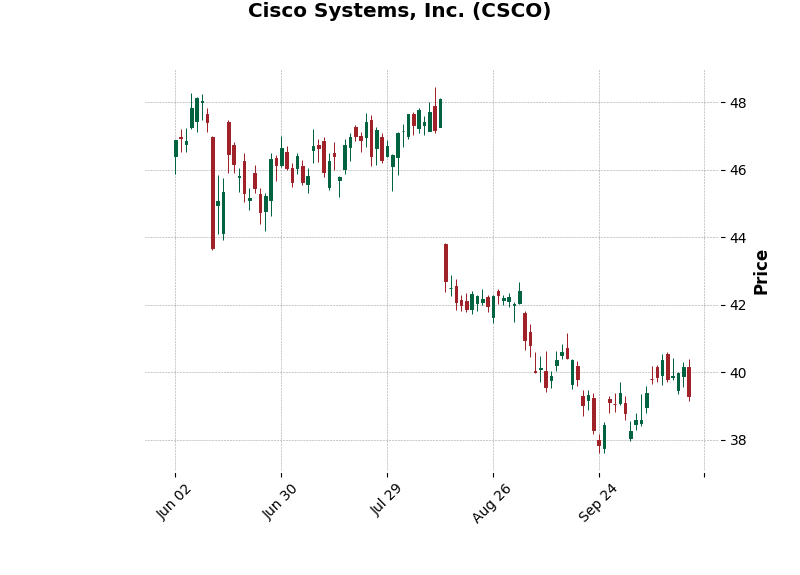
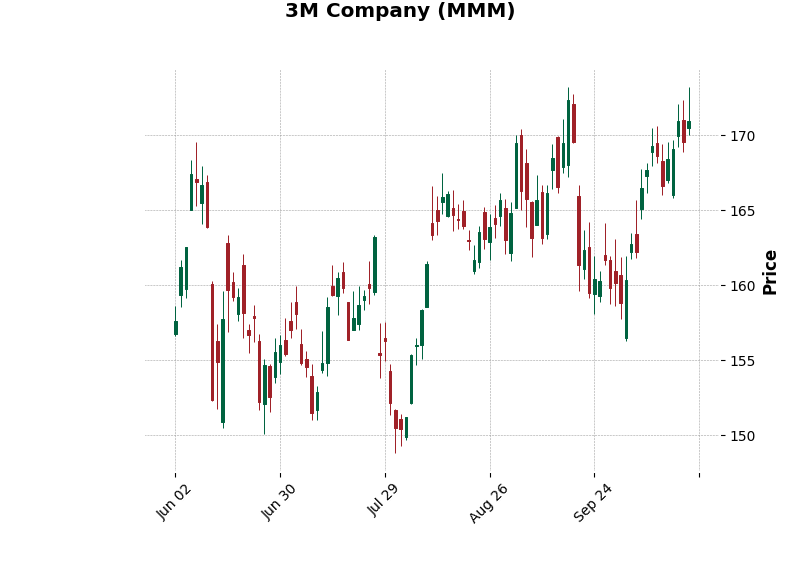
Completed task #47: hompage and infromation page are linked and basic information is visible on stock information page

diff --git a/TempInfoPage.py b/TempInfoPage.py
@@ -1,0 +1,189 @@
+import pygame
+from pygame.locals import *
+from Search import *
+from webscrape import *
+from graphs import *
+
+"""
+@Authors: Musaiyab Ali, David Forrest, Sean Brasse
+The class that displays stock information when a stock is clicked on. This will mimic
+the favorites menu, but will display the line graph and company name
+"""
+
+
+class InfoPage:
+
+
+
+
+    # default sizes for screen resolution
+    screenWid = 1280
+    screenLen = 720
+
+    # checker variables to keep track of states
+    insearchbar = 0
+    hamState = 0
+
+    # the text the user is inputing into the search bar
+    searchbarText = ""
+
+    # Empty time string
+    updatedTimeText = ""
+
+    # Empty company name
+    companyInitials = ""
+
+    # Company name
+    companyName = ""
+
+    stockToDisplay=""
+
+    updatedstock=1
+    def setStock(self,stock):
+        self.stockToDisplay=stock
+        
+
+    def infoPgInit(self):
+
+        pygame.init()
+
+        # name of the screen
+        pygame.display.set_caption('MCM')
+
+        tempurl = get_url(self.stockToDisplay)
+        self.companyName = get_company_name(tempurl)
+        self.updatedTimeText = timeStamp()
+
+        # width then Height
+        screen = pygame.display.set_mode((self.screenWid, self.screenLen))
+
+        # closeLine(self.stockToDisplay)
+        # candleStick(self.stockToDisplay)
+        # background image
+        fillerImag = pygame.image.load(
+            "../course-project-a8-mcm/images/homepageFiles/Background base.png")
+
+        # menu button
+        hamburgermenu = pygame.image.load(
+            "../course-project-a8-mcm/images/homepageFiles/HamburgerMenu.png")
+
+        # search bar box
+        searchbar = pygame.image.load(
+            "../course-project-a8-mcm/images/homepageFiles/SearchBar.png")
+
+        # back button
+        backButton = pygame.image.load(
+            "../course-project-a8-mcm/images/homepageFiles/back2.png")
+        
+        candleStickGraph= pygame.image.load("../course-project-a8-mcm/candlestick.png")
+        # candleStickGraph=pygame.transform.scale(candleStickGraph,(160*4,115*4))
+        # button and font for search bar
+        searchBarButton, searchBarFont, updatedTime, timeFont, companyFont = searchBarInitalize()
+
+        backButtonHiddenButton=pygame.Rect(10, 675, 35, 680)
+
+        # favorites menu
+        # favMenu = pygame.image.load(
+        #     "../course-project-a8-mcm/images/homepageFiles/favorites_background.png")
+
+        # screen while program is running
+        while True:
+            # clears the screen
+            screen.fill(0)
+
+            # renders all of the hidden buttons
+            pygame.draw.rect(screen,[255,255,255], backButtonHiddenButton)
+            pygame.draw.rect(screen, [0, 0, 0], searchBarButton)
+
+            # renders background and menu buttons
+            screen.blit(fillerImag, (0, 0))
+            screen.blit(searchbar, (0, 0))
+            # screen.blit(hamburgermenu, (0, 0))
+
+            screen.blit(backButton, (15, 675))
+
+
+            # render search bar text
+            searchtext = searchBarFont.render(
+                self.searchbarText, True, [0, 0, 0])
+            screen.blit(searchtext, (200, 15))
+
+            # #render Company Name
+            compName = companyFont.render(
+                self.companyName, True, [255, 255, 255])
+
+            # if self.hamState == 1:
+            #     screen.blit(favMenu, (0, 0))
+
+            # render hidden buttons
+            hamHidden = pygame.Rect(0, 0, 100, 100)
+
+            # render updated time text
+            timeText = timeFont.render(
+                self.updatedTimeText, True, [255, 255, 255])
+            screen.blit(timeText, (875, 100))
+            # )
+
+            # renders line graph box
+            # lineGraphBox = pygame.Rect(300, 300, 700, 300)
+            # pygame.draw.rect(screen, [255, 255, 255], lineGraphBox)
+
+            # updates the screen
+            # screen.blit(compName, (450, 200))
+            if self.updatedstock==0:
+                screen.blit(candleStickGraph,(200,200))
+                
+            pygame.display.update()
+
+            # event handler loop
+            for event in pygame.event.get():
+                # clicking X on window
+                if event.type == pygame.QUIT:
+                    print("Exiting Window")
+                    pygame.quit()
+                    exit(0)
+
+                # if user clicked hamburger icon
+                if event.type == pygame.MOUSEBUTTONDOWN:
+                    if backButtonHiddenButton.collidepoint(event.pos):
+                        return 0
+                    if hamHidden.collidepoint(event.pos):
+                        if self.hamState == 0:
+                            self.hamState = 1
+                        else:
+                            self.hamState = 0
+
+                # whether user clicked into search bar
+                if event.type == pygame.MOUSEBUTTONDOWN:
+                    if searchBarButton.collidepoint(event.pos):
+                        self.insearchbar = 1
+                    else:
+                        self.insearchbar = 0
+
+                # if user typed into search bar
+                if event.type == pygame.KEYDOWN and self.insearchbar == 1:
+                    if event.unicode == "\r":
+                        if search(self.searchbarText):
+                            temp = get_url(self.searchbarText)
+                            self.companyName = get_company_name(temp)
+                            self.stockToDisplay=self.searchbarText
+                            self.searchbarText = ""
+                            self.updatedTimeText = timeStamp()
+                            self.updatedstock=1
+                    else:
+                        self.searchbarText = updateSearchBarOnKeyPress(
+                            event, self.searchbarText)
+            if self.updatedstock==1:
+                self.updatedstock=0
+                print(self.stockToDisplay +" THis IS THe stock")
+                # closeLine(self.stockToDisplay)
+                candleStick(self.stockToDisplay)
+                candleStickGraph= pygame.image.load("../course-project-a8-mcm/candlestick.png")
+
+
+
+
+# calls the method to run the program
+# test = InfoPage()
+# InfoPage.updatedstock="CSCO"
+# test.infoPgInit()

diff --git a/Hompage.py b/Hompage.py
@@ -1,6 +1,7 @@
 import pygame
 from pygame.locals import *
 from Search import *
+from TempInfoPage import*
 
 """
 @Authors: Musaiyab Ali, David Forrest
@@ -38,13 +39,15 @@ class MainMenu:
 
     #the text the user is inputing into the search bar
     searchbarText=""
+    
+    inStockInfoPage=0
 
     # Empty time string
     updatedTimeText = ""
     currentPage=1
     didPageChange=True
 
-    stockList=["GILD","WMT","UNP", "UTX","HPQ", "V", "CSCO", "SLB", "AMGN", "BA", "TGT", "COP", "CMCSA", "BMY", "CVX", "VZ", "BP", "T", "UNH", "MCD", "PFE", "ABT", "FB", "DIS", "MMM", "XOM", "ORCL", "PEP","HD", "JPM", "INTC", "WFC", "MRK", "KO", "AMZN", "PG", "BRKB","GOOGL", "GM", "JNJ", "MO", "IBM", "GE", "MSFT", "AAPL","NVDA", "AMD", "GE", "NTDOF", "SNE"]
+    stockList=["GILD","WMT","UNP", "GPRO","HPQ", "V", "CSCO", "SLB", "AMGN", "BA", "TGT", "COP", "CMCSA", "BMY", "CVX", "VZ", "BP", "T", "UNH", "MCD", "PFE", "ABT", "FB", "DIS", "MMM", "XOM", "ORCL", "PEP","HD", "JPM", "INTC", "WFC", "MRK", "KO", "AMZN", "PG", "BRKB","GOOGL", "GM", "JNJ", "MO", "IBM", "GE", "MSFT", "AAPL","NVDA", "AMD", "GE", "NTDOF", "SNE"]
 
 
     def menuInit(self):
@@ -222,6 +225,39 @@ class MainMenu:
 
                 #if user clicked hamburger icon
                 if event.type==pygame.MOUSEBUTTONDOWN:
+
+                    if stock1.collidepoint(event.pos):
+                        newPage=InfoPage()
+                        newPage.setStock(self.stockList[self.currentPage*5-5])
+                        newPage.infoPgInit()
+                    if stock2.collidepoint(event.pos):
+                        newPage=InfoPage()
+                        newPage.setStock(self.stockList[self.currentPage*5-4])
+                        newPage.infoPgInit()
+                        #temps=InfoPage(self.stockList[self.currentPage*5-4])
+                    if stock3.collidepoint(event.pos):
+                        newPage=InfoPage()
+                        newPage.setStock(self.stockList[self.currentPage*5-3])
+                        newPage.infoPgInit()
+                        # temps=TempInfoPage.InfoPage(self.stockList[self.currentPage*5-3])
+                    if stock4.collidepoint(event.pos):
+                        newPage=InfoPage()
+                        newPage.setStock(self.stockList[self.currentPage*5-2])
+                        newPage.infoPgInit()
+                        #temps=InfoPage(self.stockList[self.currentPage*5-2])
+                    if stock5.collidepoint(event.pos):
+                        newPage=InfoPage()
+                        newPage.setStock(self.stockList[self.currentPage*5-1])
+                        newPage.infoPgInit()
+                        #temps=InfoPage(self.stockList[self.currentPage*5-1])
+
+
+
+
+
+
+
+
                     if hamHidden.collidepoint(event.pos):
                         if self.hamState==0:
                             self.hamState=1
@@ -284,6 +320,9 @@ class MainMenu:
                 if event.type==pygame.KEYDOWN and self.insearchbar==1:
                     if event.unicode=="\r":
                         if search(self.searchbarText):
+                            newPage=InfoPage()
+                            newPage.setStock(self.searchbarText)
+                            newPage.infoPgInit()
                             self.searchbarText=""
                             self.updatedTimeText = timeStamp()
                     else:

diff --git a/Search.py b/Search.py
@@ -22,10 +22,13 @@ it will return True. If unsucessfull it will return false
 def search(stockName):
     url = get_url(stockName.lower())
     print(url)
-    if current_price(url) == "Error. Can't find stock name. Make sure name is correct.":
+    price=current_price(url)
+    if price == "Error. Can't find stock name. Make sure name is correct." or price==None:
         print("Stock not Found")
         return False
     else:
+        print(current_price(url))
+        print("THIS IS THECURRENT PRIce")
         print("Stock Full Name: " + get_company_name(url))
         # stockName = get_company_name(url)
         t = time.localtime()
